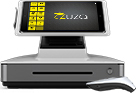
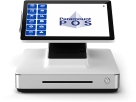
featured page changes

diff --git a/css/style.css b/css/style.css
@@ -981,11 +981,11 @@ div.page2-pane-13 div.custom-pane div.border-wrap { border-left: 1px solid #ffff
 /* --- Pane 12 --- */
 div.page2-pane-12 { position: relative; z-index: 1; min-height: 300px; visibility: hidden; }
 
-div.page2-pane-12 div.page2-pane-skew { background: #42413c none repeat scroll 0 0; bottom: 0; content: ""; height: 350px; left: 0; overflow: visible; position: absolute; transform: skewY(2deg); width: 100%; z-index: 1; }
+div.page2-pane-12 div.page2-pane-skew { background: #25327a none repeat scroll 0 0; bottom: 0; content: ""; height: 350px; left: 0; overflow: visible; position: absolute; transform: skewY(2deg); width: 100%; z-index: 1; }
 div.page2-pane-12 div.page2-pane-skew div.page2-pane-inner { width: 100%; margin-top: 100px; position: relative; display: block; float: left; transform: skewY(-2deg); }
 
 div.page2-pane-inner h2 { font-family: 'Raleway', sans-serif; font-size: 2rem; font-weight: bolder; text-transform: uppercase; text-align: center; margin: 30px 0 10px; color: #ffffff; }
-div.page2-pane-inner h2 span { color: #f9e90d; }
+div.page2-pane-inner h2 span { color: #0da2f9; }
 div.page2-pane-inner p { font-family: 'Raleway', sans-serif; margin-top: 10px; letter-spacing: 1px; text-align: center; color: #ffffff; }
 
 /* --- Pane 11 --- */
@@ -1006,67 +1006,63 @@ div.page2-pane-11 div.pane11-bottom a.scroll { background: transparent url("../i
 
 /* -- Pane 11 Sprites Level A -- */
 div.page2-pane-11 div.pane11-bottom ul li a.sprite-a1 { background: #ffffff url("../img/features/sprite/pos-overview.png") no-repeat scroll 0 0; }
-div.page2-pane-11 div.pane11-bottom ul li a.sprite-a1:hover { background-position: 0 -150px;background-color: #42413c}
-
-
+div.page2-pane-11 div.pane11-bottom ul li a.sprite-a1:hover { background-position: 0 -150px;background-color: #25327a}
 div.page2-pane-11 div.pane11-bottom ul li a.sprite-a2 { background: #ffffff url("../img/features/sprite/mobile.png") no-repeat scroll 0 0; }
-div.page2-pane-11 div.pane11-bottom ul li a.sprite-a2:hover { background-position: 0 -150px;background-color: #42413c }
-
+div.page2-pane-11 div.pane11-bottom ul li a.sprite-a2:hover { background-position: 0 -150px;background-color: #25327a }
 div.page2-pane-11 div.pane11-bottom ul li a.sprite-a3 { background: #ffffff url("../img/features/sprite/multi-station.png") no-repeat scroll 0 0; }
-div.page2-pane-11 div.pane11-bottom ul li a.sprite-a3:hover {background-position: 0 -150px;background-color: #42413c  }
+div.page2-pane-11 div.pane11-bottom ul li a.sprite-a3:hover {background-position: 0 -150px;background-color: #25327a }
 div.page2-pane-11 div.pane11-bottom ul li a.sprite-a4 { background: #ffffff url("../img/features/sprite/order-types.png") no-repeat scroll 0 0; }
-div.page2-pane-11 div.pane11-bottom ul li a.sprite-a4:hover { background-position: 0 -150px;background-color: #42413c }
+div.page2-pane-11 div.pane11-bottom ul li a.sprite-a4:hover { background-position: 0 -150px;background-color: #25327a }
 div.page2-pane-11 div.pane11-bottom ul li a.sprite-a5 { background: #ffffff url("../img/features/sprite/menu-modifiers.png") no-repeat scroll 0 0; }
-div.page2-pane-11 div.pane11-bottom ul li a.sprite-a5:hover { background-position: 0 -150px;background-color: #42413c  }
+div.page2-pane-11 div.pane11-bottom ul li a.sprite-a5:hover { background-position: 0 -150px;background-color: #25327a  }
 div.page2-pane-11 div.pane11-bottom ul li a.sprite-a6 { background: #ffffff url("../img/features/sprite/tipping.png") no-repeat scroll 0 0; }
-div.page2-pane-11 div.pane11-bottom ul li a.sprite-a6:hover { background-position: 0 -150px;background-color: #42413c  }
+div.page2-pane-11 div.pane11-bottom ul li a.sprite-a6:hover { background-position: 0 -150px;background-color: #25327a  }
 div.page2-pane-11 div.pane11-bottom ul li a.sprite-a7 { background: #ffffff url("../img/features/sprite/ecommerce.png") no-repeat scroll 0 0; }
-div.page2-pane-11 div.pane11-bottom ul li a.sprite-a7:hover { background-position: 0 -150px;background-color: #42413c  }
+div.page2-pane-11 div.pane11-bottom ul li a.sprite-a7:hover { background-position: 0 -150px;background-color: #25327a  }
 
 /* -- Pane 11 Sprites Level B -- */
 div.page2-pane-11 div.pane11-bottom ul li a.sprite-b1 { background: #ffffff url("../img/features/sprite/payments.png") no-repeat scroll 0 0; }
-div.page2-pane-11 div.pane11-bottom ul li a.sprite-b1:hover { background-position: 0 -150px;background-color: #42413c  }
+div.page2-pane-11 div.pane11-bottom ul li a.sprite-b1:hover { background-position: 0 -150px;background-color: #25327a  }
 div.page2-pane-11 div.pane11-bottom ul li a.sprite-b2 { background: #ffffff url("../img/features/sprite/checkout.png") no-repeat scroll 0 0; }
-div.page2-pane-11 div.pane11-bottom ul li a.sprite-b2:hover { background-position: 0 -150px;background-color: #42413c  }
+div.page2-pane-11 div.pane11-bottom ul li a.sprite-b2:hover { background-position: 0 -150px;background-color: #25327a  }
 div.page2-pane-11 div.pane11-bottom ul li a.sprite-b3 { background: #ffffff url("../img/features/sprite/order-history.png") no-repeat scroll 0 0; }
-div.page2-pane-11 div.pane11-bottom ul li a.sprite-b3:hover { background-position: 0 -150px;background-color: #42413c  }
+div.page2-pane-11 div.pane11-bottom ul li a.sprite-b3:hover { background-position: 0 -150px;background-color: #25327a  }
 div.page2-pane-11 div.pane11-bottom ul li a.sprite-b4 { background: #ffffff url("../img/features/sprite/printing.png") no-repeat scroll 0 0; }
-div.page2-pane-11 div.pane11-bottom ul li a.sprite-b4:hover { background-position: 0 -150px;background-color: #42413c  }
+div.page2-pane-11 div.pane11-bottom ul li a.sprite-b4:hover { background-position: 0 -150px;background-color: #25327a  }
 div.page2-pane-11 div.pane11-bottom ul li a.sprite-b5 { background: #ffffff url("../img/features/sprite/time-attendance.png") no-repeat scroll 0 0; }
-div.page2-pane-11 div.pane11-bottom ul li a.sprite-b5:hover { background-position: 0 -150px;background-color: #42413c  }
+div.page2-pane-11 div.pane11-bottom ul li a.sprite-b5:hover { background-position: 0 -150px;background-color: #25327a  }
 div.page2-pane-11 div.pane11-bottom ul li a.sprite-b6 { background: #ffffff url("../img/features/sprite/virtual-office.png") no-repeat scroll 0 0; }
-div.page2-pane-11 div.pane11-bottom ul li a.sprite-b6:hover { background-position: 0 -150px;background-color: #42413c }
+div.page2-pane-11 div.pane11-bottom ul li a.sprite-b6:hover { background-position: 0 -150px;background-color: #25327a }
 
 /* -- Pane 11 Sprites Level C -- */
 div.page2-pane-11 div.pane11-bottom ul li a.sprite-c1 { background: #ffffff url("../img/features/sprite/permission-setting.png") no-repeat scroll 0 0; }
-div.page2-pane-11 div.pane11-bottom ul li a.sprite-c1:hover {background-position: 0 -150px;background-color: #42413c  }
+div.page2-pane-11 div.pane11-bottom ul li a.sprite-c1:hover {background-position: 0 -150px;background-color: #25327a  }
 div.page2-pane-11 div.pane11-bottom ul li a.sprite-c2 { background: #ffffff url("../img/features/sprite/store-management.png") no-repeat scroll 0 0; }
-div.page2-pane-11 div.pane11-bottom ul li a.sprite-c2:hover { background-position: 0 -150px;background-color: #42413c  }
+div.page2-pane-11 div.pane11-bottom ul li a.sprite-c2:hover { background-position: 0 -150px;background-color: #25327a  }
 div.page2-pane-11 div.pane11-bottom ul li a.sprite-c3 { background: #ffffff url("../img/features/sprite/multi-location.png") no-repeat scroll 0 0; }
-div.page2-pane-11 div.pane11-bottom ul li a.sprite-c3:hover { background-position: 0 -150px;background-color: #42413c  }
+div.page2-pane-11 div.pane11-bottom ul li a.sprite-c3:hover { background-position: 0 -150px;background-color: #25327a  }
 div.page2-pane-11 div.pane11-bottom ul li a.sprite-c4 { background: #ffffff url("../img/features/sprite/crm.png") no-repeat scroll 0 0; }
-div.page2-pane-11 div.pane11-bottom ul li a.sprite-c4:hover { background-position: 0 -150px;background-color: #42413c  }
+div.page2-pane-11 div.pane11-bottom ul li a.sprite-c4:hover { background-position: 0 -150px;background-color: #25327a  }
 div.page2-pane-11 div.pane11-bottom ul li a.sprite-c5 { background: #ffffff url("../img/features/sprite/inventory.png") no-repeat scroll 0 0; }
-div.page2-pane-11 div.pane11-bottom ul li a.sprite-c5:hover { background-position: 0 -150px;background-color: #42413c  }
+div.page2-pane-11 div.pane11-bottom ul li a.sprite-c5:hover { background-position: 0 -150px;background-color: #25327a  }
 div.page2-pane-11 div.pane11-bottom ul li a.sprite-c6 { background: #ffffff url("../img/features/sprite/raw-goods.png") no-repeat scroll 0 0; }
-div.page2-pane-11 div.pane11-bottom ul li a.sprite-c6:hover { background-position: 0 -150px;background-color: #42413c }
+div.page2-pane-11 div.pane11-bottom ul li a.sprite-c6:hover { background-position: 0 -150px;background-color: #25327a }
 
 /* -- Pane 11 Sprites Level D -- */
 div.page2-pane-11 div.pane11-bottom ul li a.sprite-d1 { background: #ffffff url("../img/features/sprite/analytics.png") no-repeat scroll 0 0; }
-div.page2-pane-11 div.pane11-bottom ul li a.sprite-d1:hover { background-position: 0 -150px;background-color: #42413c  }
+div.page2-pane-11 div.pane11-bottom ul li a.sprite-d1:hover { background-position: 0 -150px;background-color: #25327a  }
 div.page2-pane-11 div.pane11-bottom ul li a.sprite-d2 { background: #ffffff url("../img/features/sprite/smart-marketing.png") no-repeat scroll 0 0; }
-div.page2-pane-11 div.pane11-bottom ul li a.sprite-d2:hover { background-position: 0 -150px;background-color: #42413c  }
+div.page2-pane-11 div.pane11-bottom ul li a.sprite-d2:hover { background-position: 0 -150px;background-color: #25327a  }
 div.page2-pane-11 div.pane11-bottom ul li a.sprite-d3 { background: #ffffff url("../img/features/sprite/fraud-protection.png") no-repeat scroll 0 0; }
-div.page2-pane-11 div.pane11-bottom ul li a.sprite-d3:hover { background-position: 0 -150px;background-color: #42413c  }
+div.page2-pane-11 div.pane11-bottom ul li a.sprite-d3:hover { background-position: 0 -150px;background-color: #25327a  }
 div.page2-pane-11 div.pane11-bottom ul li a.sprite-d4 { background: #ffffff url("../img/features/sprite/security.png") no-repeat scroll 0 0; }
-div.page2-pane-11 div.pane11-bottom ul li a.sprite-d4:hover { background-position: 0 -150px;background-color: #42413c }
+div.page2-pane-11 div.pane11-bottom ul li a.sprite-d4:hover { background-position: 0 -150px;background-color: #25327a }
 div.page2-pane-11 div.pane11-bottom ul li a.sprite-d5 { background: #ffffff url("../img/features/sprite/support.png") no-repeat scroll 0 0; }
-div.page2-pane-11 div.pane11-bottom ul li a.sprite-d5:hover { background-position: 0 -150px;background-color: #42413c  }
+div.page2-pane-11 div.pane11-bottom ul li a.sprite-d5:hover { background-position: 0 -150px;background-color: #25327a  }
 div.page2-pane-11 div.pane11-bottom ul li a.sprite-d6 { background: #ffffff url("../img/features/sprite/training.png") no-repeat scroll 0 0; }
-div.page2-pane-11 div.pane11-bottom ul li a.sprite-d6:hover {background-position: 0 -150px;background-color: #42413c  }
-
+div.page2-pane-11 div.pane11-bottom ul li a.sprite-d6:hover {background-position: 0 -150px;background-color: #25327a  }
 div.page2-pane-11 div.pane11-bottom ul li a.sprite-h1 { background: #ffffff url("../img/features/sprite/hardware.png") no-repeat scroll 0 0; }
-div.page2-pane-11 div.pane11-bottom ul li a.sprite-h1:hover {background-position: 0 -150px;background-color: #42413c  }
+div.page2-pane-11 div.pane11-bottom ul li a.sprite-h1:hover {background-position: 0 -150px;background-color: #25327a  }
 
 
 
@@ -1103,7 +1099,7 @@ div.page2-pane-11 div.pane11-bottom ul li a.feat-item img.hover{
     display: none;
 }
 div.page2-pane-11 div.pane11-bottom ul li:hover a.feat-item{
-    background: #42413c;
+    background: #25327a;
     color: #fff;
 }
 div.page2-pane-11 div.pane11-bottom ul li:hover a.feat-item img.front{
@@ -1248,7 +1244,7 @@ div.page2-pane-wrap ul.scroll-nav { position: relative; list-style-type: none; m
 div.page2-pane-wrap ul.scroll-nav li { display: block; }
 /*div.page2-pane-wrap ul.scroll-nav li a { padding: 5px; display: block; text-indent: 30%; color: #42413c; font-size: 14px; }*/
 div.page2-pane-wrap ul.scroll-nav li a { padding: 5px; display: block; text-indent: 0; color: #42413c; font-size: 14px; padding-left:10%;}
-div.page2-pane-wrap ul.scroll-nav li a:hover { background: #f9e90d none repeat scroll 0 0; }
+div.page2-pane-wrap ul.scroll-nav li a:hover { background: #afb3ce none repeat scroll 0 0; }
 
 div.page2-pane-wrap p.null-margin { margin: 0 !important; }
 div.page2-pane-wrap h3.null-margin { margin: 0 !important; }
@@ -1391,8 +1387,8 @@ div.page2-pane-6 div.tab-container ul.tabs { display: block; margin: 0 auto; max
 div.page2-pane-6 div.tab-container h4 { text-align: center; font-size: 2.5rem; margin: 50px 0 30px; }
 
 div.page2-pane-6 div.tab-container ul.tabs li { margin: 0 2px; }
-div.page2-pane-6 div.tab-container ul.tabs li.active a { position: relative; background: #f9e90d none repeat scroll 0 0; }
-div.page2-pane-6 div.tab-container ul.tabs li.active a:after { top: 100%; left: 50%; border: solid transparent; content: ""; height: 0; width: 0; position: absolute; pointer-events: none; border-color: rgba(249, 233, 13, 0); border-top-color: #f9e90d; border-width: 15px; margin-left: -15px; }
+div.page2-pane-6 div.tab-container ul.tabs li.active a { position: relative; background: #0da2f9 none repeat scroll 0 0; }
+div.page2-pane-6 div.tab-container ul.tabs li.active a:after { top: 100%; left: 50%; border: solid transparent; content: ""; height: 0; width: 0; position: absolute; pointer-events: none; border-color: rgba(249, 233, 13, 0); border-top-color: #0da2f9; border-width: 15px; margin-left: -15px; }
 
 div.page2-pane-6 div.ipad-wrap { display: block; margin: 0 auto; background: #ffffff url("../img/features/ipad-wrap.png") no-repeat scroll center center/cover; max-width: 732px; width: 100%; max-height: 512px; height: 100%;  }
 div.page2-pane-6 div.ipad-inner { padding: 50px 100px 50px 80px; }
@@ -1460,7 +1456,7 @@ div.page2-pane-wrap div.sticky { position: fixed; top: 56px; left: 0; }
 div.page2-pane-wrap div.sticky-stop { clear: both; }
 div.page2-pane-wrap div.sticky-bottom { position: absolute; top: inherit; bottom: 0; }
 
-div.page2-pane-wrap ul.scroll-nav li.current a { background: #f9e90d none repeat scroll 0 0; }
+div.page2-pane-wrap ul.scroll-nav li.current a { background: #afb3ce none repeat scroll 0 0; }
 div.page2-pane-wrap div.points { float: right; }
 
 

diff --git a/features.html b/features.html
@@ -1293,7 +1293,7 @@ window.addEventListener('DOMContentLoaded', function(e){
         </div>
         <div class="medium-6 columns">
             <div class="thumb">
-                <img src="images/hardware/star-all-in-one-systems.jpg" alt="All in One Systems"/>
+                <img src="images/hardware/star-all-in-one-systems.png" alt="All in One Systems"/>
             </div><!--end-->
             <div class="desc">
                 <h4>All in One Systems</h4>
@@ -1326,7 +1326,7 @@ window.addEventListener('DOMContentLoaded', function(e){
     <div class="row item wow fadeInUp">
         <div class="medium-6 columns">
             <div class="thumb">
-                <img src="images/hardware/apple-tablets.jpg" alt="Apple Tablets"/>
+                <img src="images/hardware/apple-android.webp" alt="Apple Tablets"/>
             </div><!--end-->
             <div class="desc">
                 <h4>Apple and Android Tablets</h4>
@@ -1377,7 +1377,7 @@ window.addEventListener('DOMContentLoaded', function(e){
         </div><!--end-->
         <div class="medium-6 columns">
             <div class="thumb">
-                <img src="img/features/vega3000.png" alt="Vega 3000" style="width:95px" />
+                <img src="images/hardware/handheld.png" alt="Handheld" style="width:95px" />
             </div><!--end-->
             <div class="desc">
                 <h4>Hand Held</h4>
@@ -1386,7 +1386,7 @@ window.addEventListener('DOMContentLoaded', function(e){
         </div>
     </div><!--end of item-->
 
-<img src="images/hardware/hardware-last.jpg" alt="hardware banner" class="hw wow fadeInUp"/>
+<img src="images/hardware/hardware-last.png" alt="hardware banner" class="hw wow fadeInUp"/>
 <div class="last-container wow fadeInUp">
     <div class="row last-item">
         <div class="large-4 columns">
